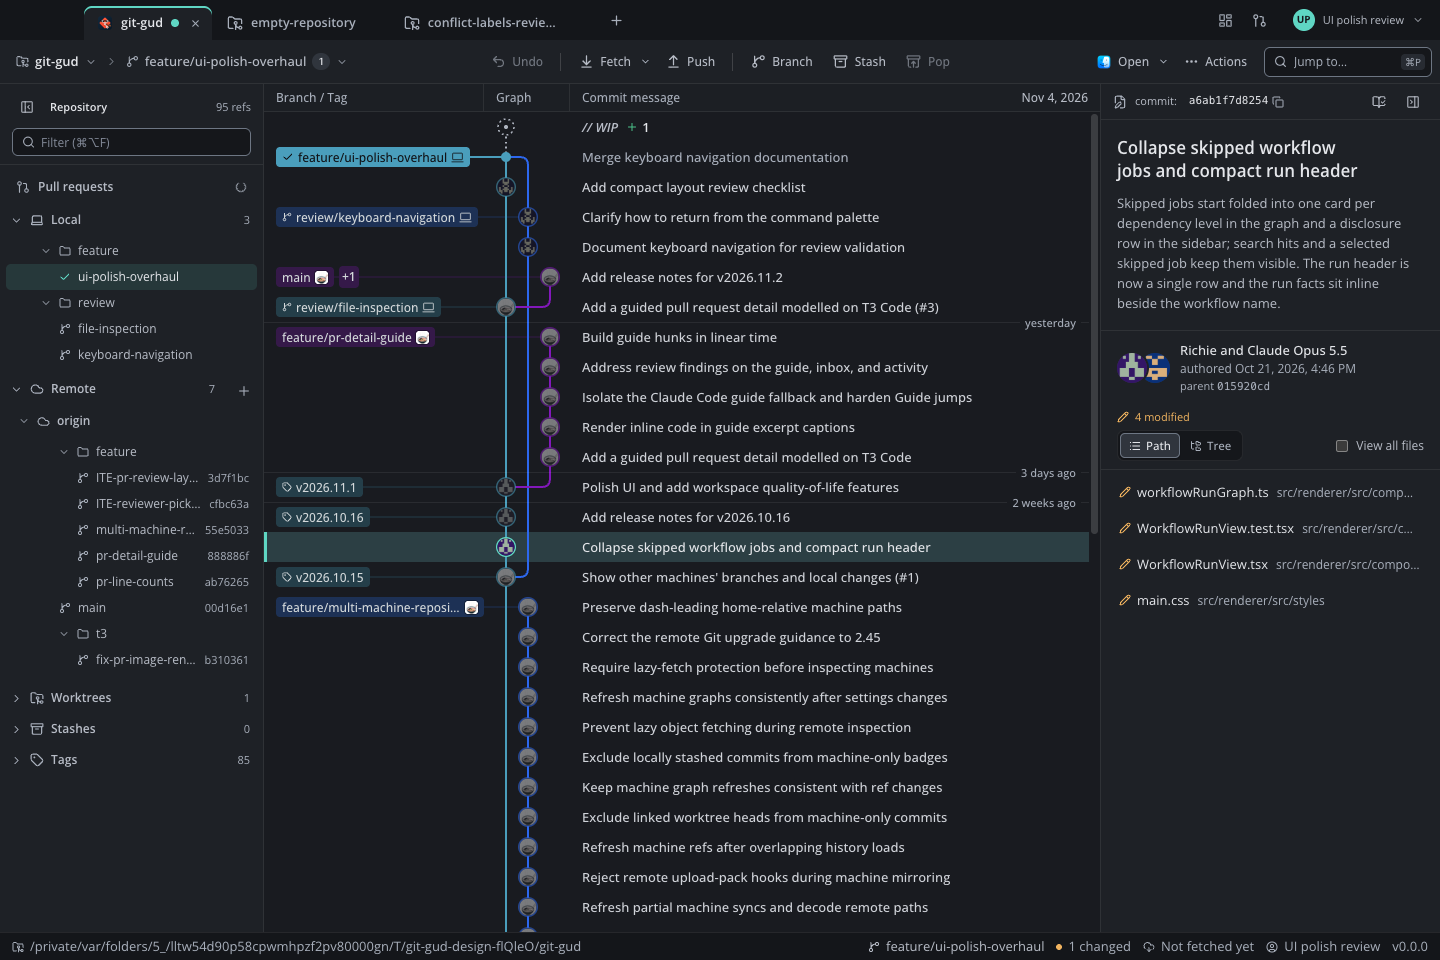
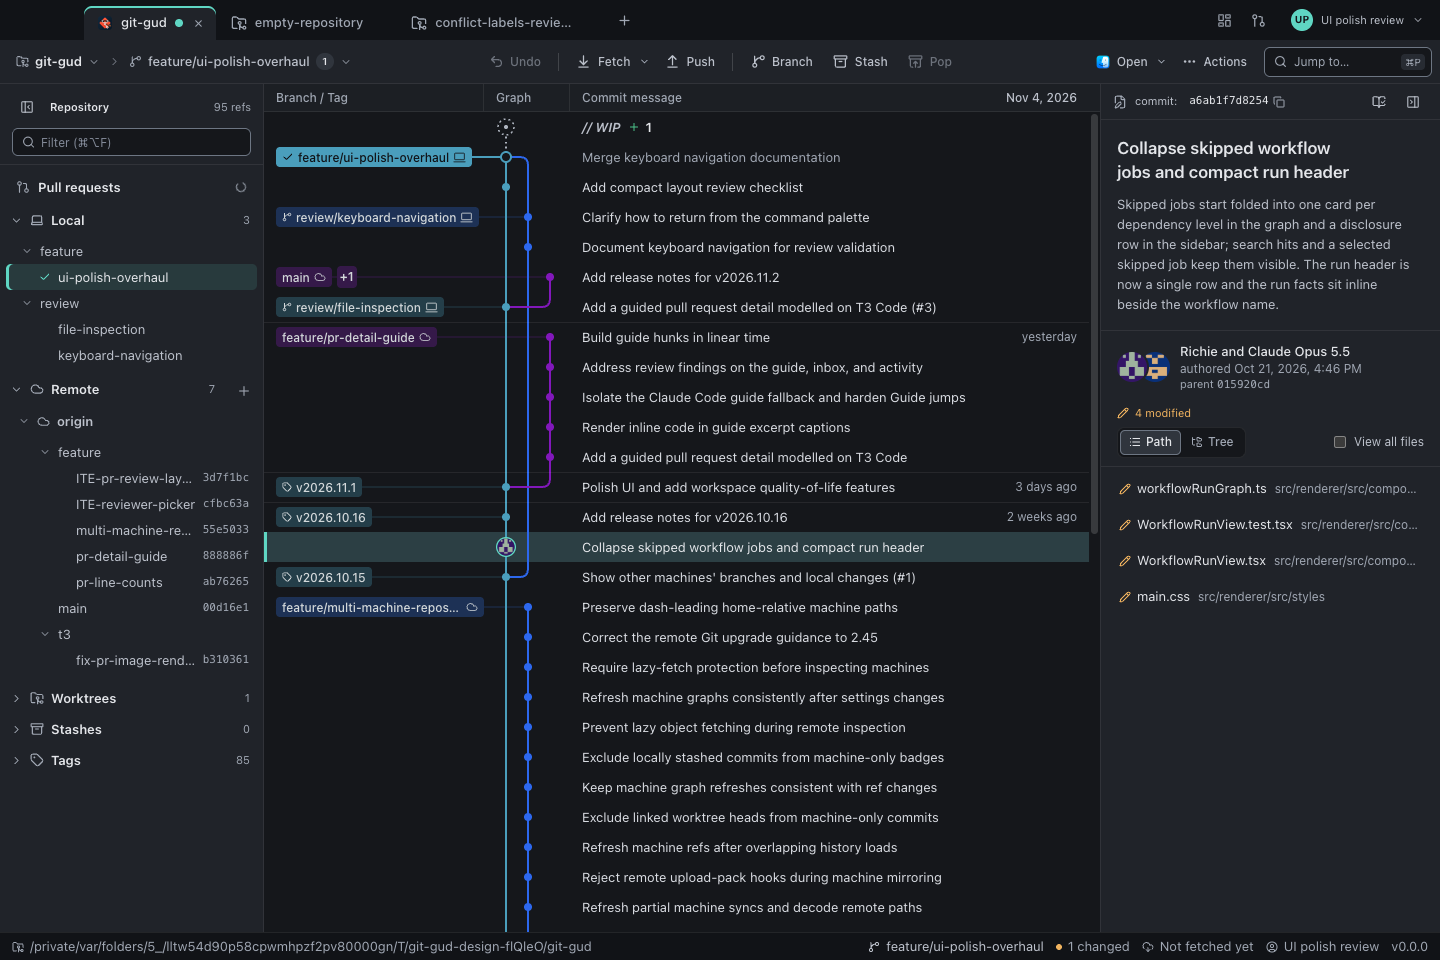
Record workbench screenshots and focused validation

diff --git a/docs/ui-polish-validation.md b/docs/ui-polish-validation.md
@@ -2,6 +2,44 @@
 
 These are unmodified screenshots of the running Git Gud Electron application. They show real Git history, local staging, an empty repository, a failed local clone, and read-only views of GitHub PR #4 and its workflow runs. Settings and repositories used for validation are isolated from the normal desktop workspace.
 
+## Current workbench pass
+
+The current eight primary captures show UI source `9d5886568fd5928f9af04e963b48eab7d9590a42` from round 13, at 1440×960 or 1100×760 and 1× density. They replace the primary gallery images only. Historical comparisons and the round-10 Retina set below retain their original provenance.
+
+System UI typography and a darker reading canvas give history and code more separation from their tools. Ordinary commits use lane-colored dots at rest, reveal author identity on hover or selection, and distinguish merges with hollow rings. Ref chips use a cloud for remote association. Time labels align with the graph's right edge. Sidebar leaves keep state icons and drop repeated branch/folder decoration.
+
+Settings uses a bounded 560px drawer with label/control rows, grouped fields and native checkboxes. Wide Actions tiles use 36px ledger rows at a 720px tile width; narrower tiles retain two lines. The review rail uses plain block numbers until viewed, marks the current file, and keeps its final action at the bottom of the footer, including while its explanation is open.
+
+| Verification | Result |
+| --- | --- |
+| `pnpm build`, including typecheck | Pass |
+| `pnpm lint` | Pass |
+| `TMPDIR=/private/tmp pnpm test` | 172 files, 1,366 passed, 4 skipped |
+| Focused review tests | 18 files, 115 passed |
+| Actual Electron core/integration flows | 21 and 17 checks pass |
+| New layout/interaction checks | 17 pass |
+| Type and selected-row contrast checks | 6 pass |
+
+```sh
+agent-browser --session git-gud-polish connect 9236
+node /tmp/git-gud-polish-workbench-core-v13.mjs
+node /tmp/git-gud-polish-workbench-broad-v13.mjs
+node /tmp/git-gud-polish-workbench-layout-v13.mjs
+node /tmp/git-gud-polish-workbench-type-v13.mjs
+```
+
+Tested renderer: `file:///Volumes/DevSSD/worktrees/git-gud/t3-8b4af8c3/out/renderer/index.html`. Reports, command logs, exact retained scripts and screenshot hashes are in `artifacts/ui-polish/round-13/final/` and `artifacts/ui-polish/fixed-comparison-v13/` in the task workspace.
+
+Layout checks verify hover/selection avatar reveal, hollow merge fill, settings accessible names and Cancel behavior, narrow settings containment, dashboard columns across 1440/1100/780/730px, the current file's 3px teal edge inside Pierre's shadow DOM, and the terminal review action at 760px, 600px and an effective 720×330 viewport at native 200% zoom. The ledger's title retains 180px at its boundary. Bulk muted text measures 5.28:1 on its selected background. Selected and resting commit subjects keep the same weight.
+
+[Selected merge](images/ui-polish-overhaul/workbench-graph-merge-selected.png), [narrow settings](images/ui-polish-overhaul/workbench-settings-narrow.png), [two-line dashboard](images/ui-polish-overhaul/workbench-dashboard-narrow.png), [compact dashboard](images/ui-polish-overhaul/workbench-dashboard-compact.png), and [expanded footer at 200%](images/ui-polish-overhaul/workbench-review-footer-660-zoom-2.png) are unmodified running-app captures.
+
+No unexpected renderer or console errors were recorded. The clone edge case intentionally uses a missing local source and Git exit 128. Browser request capture does not cover IPC/CLI network traffic. The test runner warns about a missing dependency source map; the suite completes successfully. The heuristic structure scan flags existing large source files and generated bundles and is not a correctness test. Screen-reader traversal, Windows/Linux rendering, a populated Guide, physical mouse-wheel routing and remote write flows remain untested. No app commit, remote push, review submission or conflict save was performed. Settings test drafts were cancelled and the window returned to 1440×960 at 100%.
+
+## Historical evidence
+
+Sections below describe their named earlier passes. Values and interaction claims there belong to those captures, not automatically to the current workbench.
+
 ## Focus and branch-label corrections
 
 The keyboard ring around the commit identity now sits 2px outside the row, clearing the text while staying inside panel padding. Dashboard branch names use a truncating text child beside a fixed icon, with the full name retained in the native title tooltip.
@@ -37,7 +75,7 @@ node /tmp/git-gud-polish-craft-r12.mjs
 
 [Focused identity at compact width](images/ui-polish-overhaul/commit-identity-focus-compact.png), [wide inline identity](images/ui-polish-overhaul/commit-identity-wide.png), [disabled PR action during composition](images/ui-polish-overhaul/pr-action-disabled-compact.png), and [compact dashboard](images/ui-polish-overhaul/dashboard-compact.png) are original running-app captures. Reports, scripts and capture hashes remain under `artifacts/ui-polish/round-12/` and `artifacts/ui-polish/fixed-comparison-v12/`. No unexpected renderer or console errors were recorded. Network capture does not certify IPC/CLI traffic. Screen readers, other OS chrome, populated Guide output and live remote write flows remain untested.
 
-The eight current primary gallery captures are from this craft pass. The matched round-6 versus round-11 gallery uses immutable round-11 image links; its historical evidence has not been replaced with newer images. Other gallery images retain their stated earlier provenance.
+The eight primary gallery captures at round 12 were from this craft pass. The matched round-6 versus round-11 gallery uses immutable round-11 image links; its historical evidence has not been replaced with newer images. Other gallery images retain their stated earlier provenance.
 
 ## Inbox badge follow-up
 
@@ -52,9 +90,9 @@ pnpm build
 node /tmp/git-gud-polish-inbox-badge-r12.mjs
 ```
 
-## Latest focused pass
+## Round 11 focused pass
 
-Round 11 keeps the existing visual direction and compares eight fixed views with round 6 at matching dimensions and 1× density. [Open the matched comparison](ui-polish-comparison.md). The eight current comparison images, working-copy image, selected-code images and short-footer images in this gallery are from this pass. Other gallery images retain their earlier provenance. The Retina set below is from round 10.
+Round 11 keeps the existing visual direction and compares eight fixed views with round 6 at matching dimensions and 1× density. [Open the matched comparison](ui-polish-comparison.md). The immutable round-11 comparison images and the named round-11 diagnostic images are from this pass. Other gallery images retain their earlier provenance. The Retina set below is from round 10.
 
 `pnpm lint`, `pnpm build` including typecheck, and `pnpm exec vitest run src/renderer` pass. The renderer run has 97 files and 630 passing tests. `TMPDIR=/private/tmp pnpm test` also passes on this source, with 172 files, 1,365 passing tests and 4 skipped.
 
